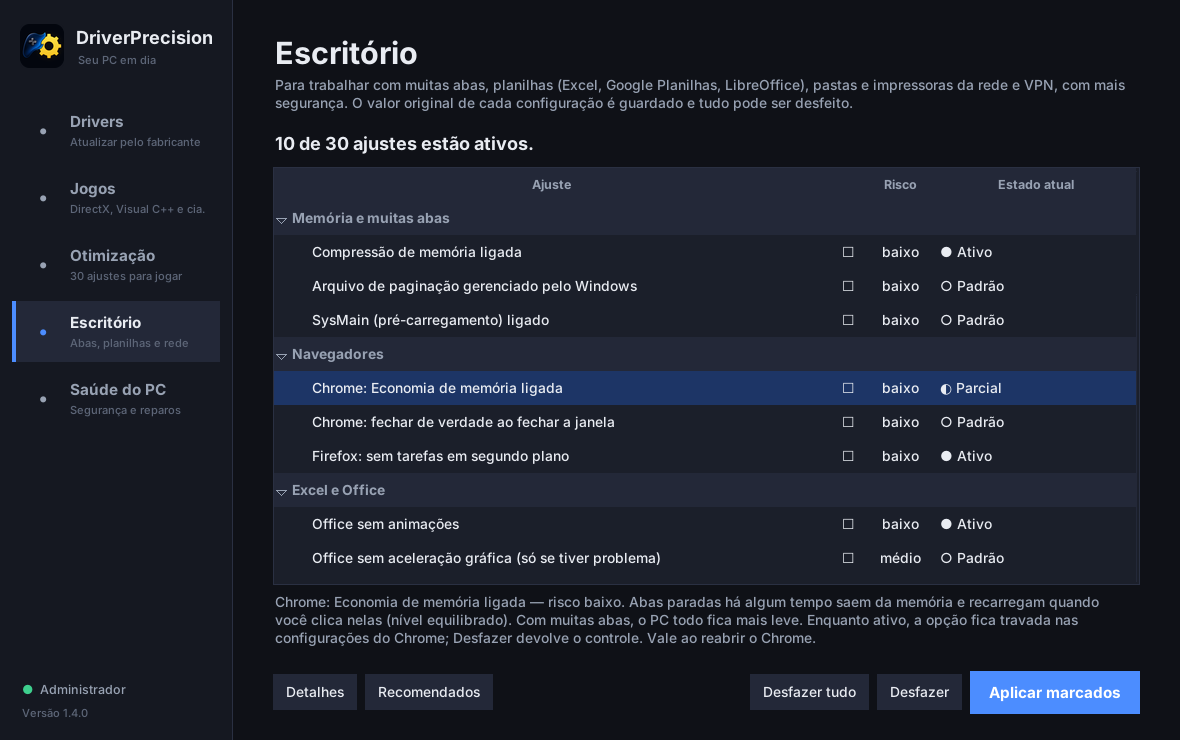
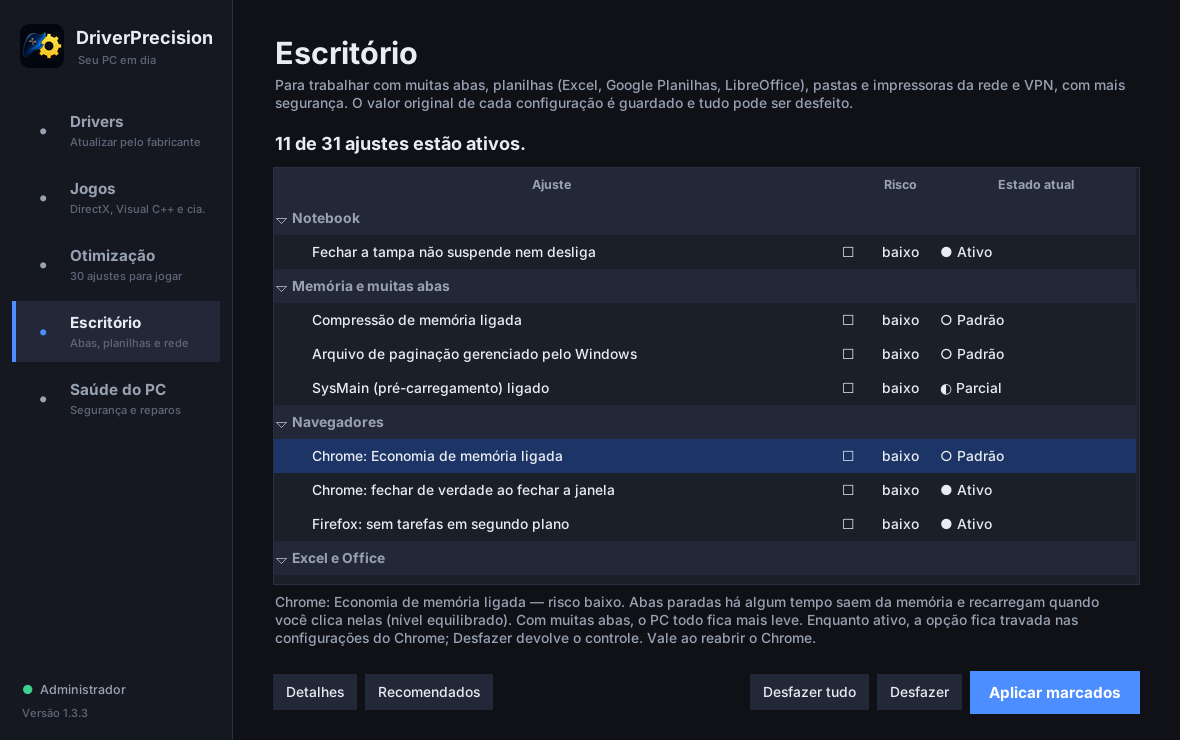
Ajuste "Fechar a tampa não suspende nem desliga" (jogos e escritório)
Ação da tampa "Nada a fazer" em todos os planos de energia, na bateria
e na tomada, com backup por plano e desfazer exato. Só para notebook.
Categoria Notebook no topo das duas telas.

Claude-Session: https://claude.ai/code/session_01LPHYJRpsxwZR1Z3kh4uJqA

diff --git a/driverprecision_otimiza.py b/driverprecision_otimiza.py
@@ -195,6 +195,25 @@ def _herdar_preferencias(de: str, para: str) -> list[str]:
     return copiados
 
 
+def planos() -> list[str]:
+    """GUIDs de todos os planos de energia do PC."""
+    return [m.lower() for m in dict.fromkeys(re.findall(GUID, _cmd(["powercfg", "/list"])[1], re.I))]
+
+
+_BATERIA: bool | None = None
+
+
+def tem_bateria() -> bool:
+    """Notebook (tem bateria e, portanto, tampa)."""
+    global _BATERIA
+    if _BATERIA is None:
+        try:
+            _BATERIA = dp.powershell("[bool](Get-CimInstance Win32_Battery)", 60).strip().lower() == "true"
+        except Exception:
+            _BATERIA = False
+    return _BATERIA
+
+
 def _pc_set(sub: str, setting: str, ac: int, dc: int | None = None) -> None:
     rc, out = _cmd(["powercfg", "/setacvalueindex", "SCHEME_CURRENT", sub, setting, str(ac)])
     if rc != 0:  # a configuração não existe neste PC (ex.: Wi-Fi em desktop sem placa Wi-Fi)
@@ -289,7 +308,7 @@ def controlado_pela_ti(a: dict) -> bool:
     """Áreas que a TI de uma empresa costuma gerenciar: políticas, serviços e segurança."""
     if a.get("ti") is not None:
         return bool(a["ti"])
-    if a.get("tipo") in ("ps", "bcd", "msi_gpu", "plano", "powercfg", "hiber"):  # segurança, boot e energia
+    if a.get("tipo") in ("ps", "bcd", "msi_gpu", "plano", "powercfg", "hiber", "todos_planos"):  # segurança, boot e energia
         return True
     return any("\\policies\\" in p.lower() or "\\services\\" in p.lower() for _, p, *_ in a.get("reg", []))
 
@@ -589,7 +608,18 @@ AJUSTES += [
              "Usa até alguns GB do disco C:."},
 ]
 
-ORDEM_CATS = {"escritorio": ["Memória e muitas abas", "Navegadores", "Excel e Office", "Rede", "Segurança", "Windows", "Disco",
+AJUSTES += [
+    {"id": "tampa_nada", "perfis": ("jogos", "escritorio"), "cat": "Notebook", "nome": "Fechar a tampa não suspende nem desliga",
+     "risco": "baixo", "tipo": "todos_planos", "pc": ("SUB_BUTTONS", "LIDACTION", 0, 0),
+     "aplica_se": lambda: tem_bateria(), "requisito": "só para notebook",
+     "desc": "Ao fechar ou baixar a tampa, só a tela do notebook apaga: programas, downloads, VPN, chamada e monitor externo "
+             "continuam funcionando. Evita o monitor ligado em hub USB-C voltar com resolução errada depois de suspender. "
+             "Vale na bateria e na tomada, em todos os planos de energia. Para suspender, use o menu Iniciar."},
+]
+
+ORDEM_CATS = {"jogos": ["Notebook", "Energia e CPU", "Placa de vídeo", "Agendador multimídia", "Rede", "Mouse e teclado", "Windows",
+                        "Disco", "Segurança x desempenho"],
+              "escritorio": ["Notebook", "Memória e muitas abas", "Navegadores", "Excel e Office", "Rede", "Segurança", "Windows", "Disco",
                              "Mouse e teclado"]}
 POR_ID = {a["id"]: a for a in AJUSTES}
 
@@ -628,6 +658,14 @@ def estado(a: dict) -> str:
         return "ATIVO" if REG.get("HKLM", PWR, "HibernateEnabled")[2] == 0 else "PADRÃO"
     if a.get("aplica_se") and not a["aplica_se"]():
         return "N/A"
+    if t == "todos_planos":
+        sub, st, ac, dc = a["pc"]
+        vals = [_pc_lidos(sub, st, g) for g in planos()]
+        vals = [v for v in vals if v[0] is not None]
+        if not vals:
+            return "N/A"
+        iguais = sum(1 for v in vals if v == (ac, dc))
+        return "ATIVO" if iguais == len(vals) else ("PARCIAL" if iguais else "PADRÃO")
     if t == "ps":
         v = _ps_ler(a)
         return "N/A" if v is None else ("ATIVO" if _ps_ativo(a, v) else "PADRÃO")
@@ -646,7 +684,20 @@ def aplicar(aid: str) -> str:
     b = _ler_backup()
     orig = b.get(aid)  # já aplicado antes: mantém o original da primeira vez
     t = a.get("tipo")
-    if t == "ps":
+    if t == "todos_planos":
+        sub, st, ac, dc = a["pc"]
+        atuais = {g: _pc_lidos(sub, st, g) for g in planos()}
+        atuais = {g: v for g, v in atuais.items() if v[0] is not None}
+        if not atuais:
+            raise RuntimeError("este PC não tem essa configuração de energia")
+        if orig is None:
+            orig = {"todos_planos": [[g, sub, st, v[0], v[1]] for g, v in atuais.items()]}
+        for g in atuais:
+            _cmd(["powercfg", "/setacvalueindex", g, sub, st, str(ac)])
+            _cmd(["powercfg", "/setdcvalueindex", g, sub, st, str(dc)])
+        _cmd(["powercfg", "/setactive", "SCHEME_CURRENT"])
+        msg = f"aplicado em {len(atuais)} plano(s) de energia"
+    elif t == "ps":
         v = _ps_ler(a)
         if v is None:
             raise RuntimeError("recurso não disponível neste Windows")
@@ -736,6 +787,11 @@ def desfazer(aid: str) -> str:
             _bcd_restaura(nome, valor)
     if orig.get("hiber"):  # só religa se estava ligada antes
         _cmd(["powercfg", "/hibernate", "on"])
+    for g, sub, st, ac0, dc0 in orig.get("todos_planos", []):
+        _cmd(["powercfg", "/setacvalueindex", g, sub, st, str(ac0)])
+        _cmd(["powercfg", "/setdcvalueindex", g, sub, st, str(dc0)])
+    if orig.get("todos_planos"):
+        _cmd(["powercfg", "/setactive", "SCHEME_CURRENT"])
     if "pc" in orig:
         plano, sub, st, ac0, dc0 = orig["pc"]
         rc, out = _cmd(["powercfg", "/setacvalueindex", plano, sub, st, str(ac0)])

diff --git a/tests/test_escritorio_saude.py b/tests/test_escritorio_saude.py
@@ -37,7 +37,8 @@ class Perfis(Base):
         self.assertNotIn("chrome_memoria", ids_j)
         self.assertIn("telemetria", ids_j & ids_e)    # compartilhados aparecem nas duas
         cats = [a["cat"] for a in esc]
-        self.assertEqual(cats[0], "Memória e muitas abas")
+        self.assertEqual(cats[0], "Notebook")
+        self.assertEqual(cats[1], "Memória e muitas abas")
         self.assertEqual(cats, sorted(cats, key=ot.ORDEM_CATS["escritorio"].index))
 
     def test_nenhum_ajuste_de_escritorio_reduz_seguranca(self):
@@ -253,3 +254,41 @@ class PlanoDeEnergia(Base):
             self.assertEqual(ativo[0], antigo)
         finally:
             ot._cmd = cmd_orig
+
+
+class Tampa(Base):
+    def test_tampa_vale_em_todos_os_planos_e_desfaz(self):
+        p1, p2 = "381b4222-f694-41f0-9685-ff5bb260df2e", "8c5e7fda-e8bf-4a96-9a85-a6e23a8c635c"
+        lid = {p1: [1, 3], p2: [0, 0]}          # Equilibrado: suspende na tomada, desliga na bateria; Alto desempenho: nada
+
+        def cmd(args):
+            op = args[1].lower()
+            if op == "/list":
+                return 0, f"GUID: {p1}  (Equilibrado) *\r\nGUID: {p2}  (Alto desempenho)"
+            if op == "/getactivescheme":
+                return 0, f"GUID: {p1}"
+            if op == "/qh":
+                ac, dc = lid[args[2]]
+                return 0, f"AC: 0x{ac:08x}\r\nDC: 0x{dc:08x}\r\n"
+            if op in ("/setacvalueindex", "/setdcvalueindex"):
+                lid[args[2]][0 if "ac" in op else 1] = int(args[5])
+            return 0, ""
+        cmd_orig, bat = ot._cmd, ot._BATERIA
+        ot._cmd, ot._BATERIA = cmd, True
+        try:
+            a = ot.POR_ID["tampa_nada"]
+            self.assertEqual(set(a["perfis"]), {"jogos", "escritorio"})
+            self.assertEqual(ot.estado(a), "PARCIAL")
+            ot.aplicar("tampa_nada")
+            self.assertEqual(lid, {p1: [0, 0], p2: [0, 0]})
+            self.assertEqual(ot.estado(a), "ATIVO")
+            ot.desfazer("tampa_nada")
+            self.assertEqual(lid, {p1: [1, 3], p2: [0, 0]})
+            ot._BATERIA = False                  # desktop: não se aplica
+            self.assertEqual(ot.estado(a), "N/A")
+        finally:
+            ot._cmd, ot._BATERIA = cmd_orig, bat
+
+    def test_notebook_no_topo_das_duas_telas(self):
+        for perfil in ("jogos", "escritorio"):
+            self.assertEqual(ot.do_perfil(perfil)[0]["id"], "tampa_nada", perfil)

diff --git a/tests/integracao_windows.py b/tests/integracao_windows.py
@@ -44,6 +44,9 @@ def _foto(ot, a) -> dict:
         return {"bcd": [ot._bcd_get("disabledynamictick"), ot._bcd_get("useplatformclock")]}
     if t == "hiber":
         return {"hiber": ot.REG.get("HKLM", ot.PWR, "HibernateEnabled")[2]}
+    if t == "todos_planos":
+        sub, st, _, _ = a["pc"]
+        return {"planos": {g: ot._pc_lidos(sub, st, g) for g in ot.planos()}}
     if t == "ps":
         return {"ps": ot._ps_ler(a), "guardar": [ot.REG.get(h, p, n) for h, p, n in a.get("guardar", [])]}
     return {"reg": [ot.REG.get(h, p, n) for h, p, n, _, _ in ot.regs_do_ajuste(a)]}
@@ -53,6 +56,7 @@ def t_otimiza() -> None:
     titulo("OTIMIZAÇÃO: aplicar -> conferir -> desfazer -> conferir que voltou ao original")
     import driverprecision_otimiza as ot
     ot.BACKUP = Path(tempfile.mkdtemp()) / "bk.json"
+    ot._BATERIA = True  # a máquina de teste não tem bateria: força o ajuste da tampa para testá-lo de verdade
     print("  plano ativo:", ot.plano_ativo(), "| BitLocker:", ot.bitlocker_ativo(), "| ambiente:", ot.ambiente())
     print("  Chrome:", ot.tem_chrome(), "| Firefox:", ot.tem_firefox(), "| Office:", ot.tem_office(), "| LibreOffice:", ot.tem_libreoffice())
     # o plano Desempenho Máximo tem de herdar a ação da tampa e o tempo de tela do plano anterior

diff --git a/CHANGELOG.md b/CHANGELOG.md
@@ -14,6 +14,11 @@ Formato baseado em [Keep a Changelog](https://keepachangelog.com/pt-BR/1.1.0/). 
 - Tela **Saúde do PC**: diagnóstico só de leitura (segurança, integridade, memória, rede) com dicas em ordem de gravidade, e reparos com um clique (DNS, fila de impressão, temporários, chkdsk, SFC, DISM, redefinir rede).
 - **PC de empresa** (domínio, Entra ID ou Intune) detectado: o que a TI controla fica bloqueado nas telas de ajustes, nas duas telas.
 - Ajustes de programas não instalados (Chrome, Firefox, Office, LibreOffice) aparecem como "Não se aplica".
+- **Fechar a tampa não suspende nem desliga** (notebook, nas telas Otimização e Escritório): só a tela do notebook apaga; programas, VPN e monitor externo continuam. Vale em todos os planos de energia, na bateria e na tomada.
+
+### Corrigido
+- O plano **Desempenho Máximo** trocava a ação da tampa, do botão de energia e os tempos de tela e suspensão pelos padrões do Windows (fechar a tampa passava a suspender, e monitores em hub USB-C voltavam com resolução errada). Agora o plano novo herda essas preferências do plano anterior.
+- "Efeitos visuais no mínimo" mantém o ClearType (letras nítidas) ligado.
 
 ### Alterado
 - "Desfazer tudo" desfaz só os ajustes da tela em que você está.

diff --git a/README.md b/README.md
@@ -84,6 +84,7 @@ Mesmo motor da Otimização (backup do valor original, Desfazer, aviso de reiní
 
 | Categoria | Ajustes |
 |---|---|
+| Notebook | fechar a tampa não suspende nem desliga (também na tela Otimização) |
 | Memória e muitas abas | compressão de memória · arquivo de paginação automático · SysMain |
 | Navegadores | Chrome: Economia de memória e fechar de verdade · Firefox: sem agente e telemetria em segundo plano |
 | Excel e Office | Office sem animações · Office sem aceleração gráfica (só com sintoma) · LibreOffice: cache de imagens maior |
